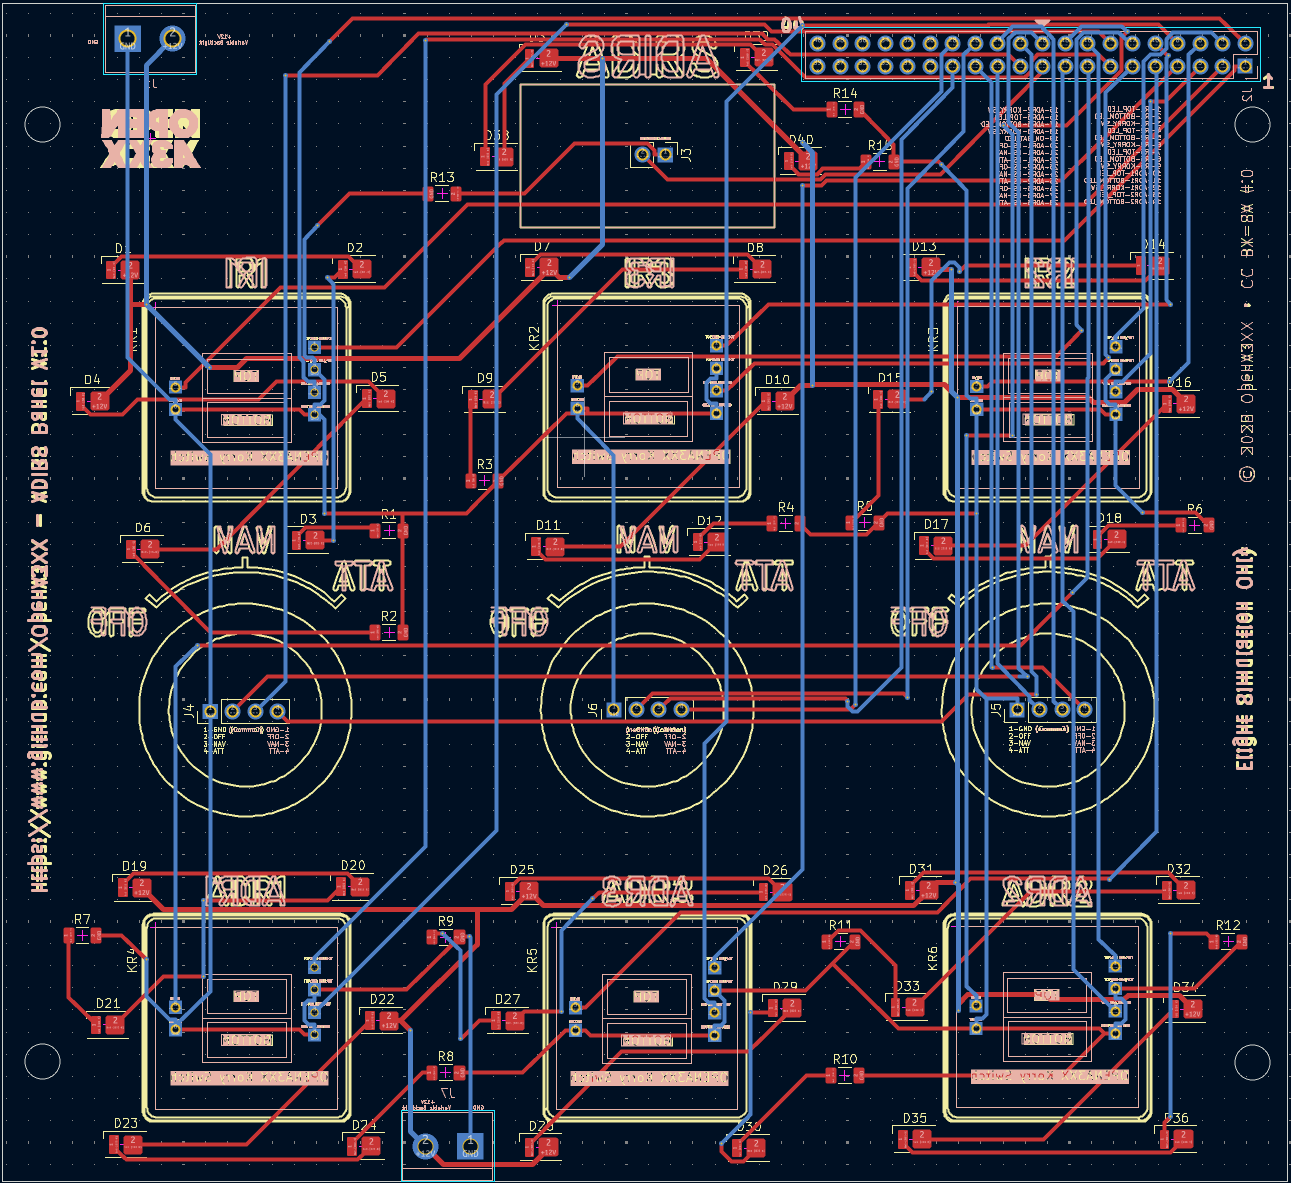
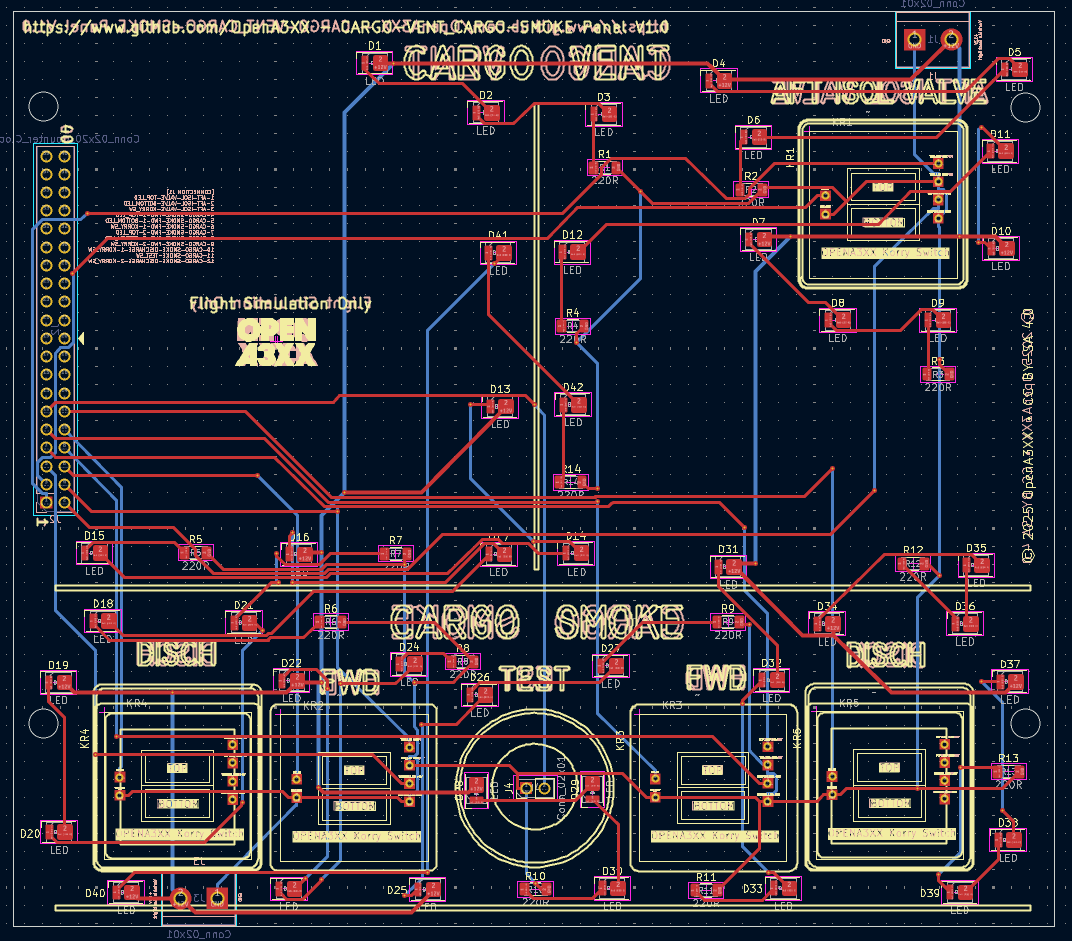
Cargo Vent and Cargo Smoke Panel Docs

diff --git a/airbus-a320-panels/overhead/right-section/CARGO-VENT-CARGO-SMOKE/README.md b/airbus-a320-panels/overhead/right-section/CARGO-VENT-CARGO-SMOKE/README.md
@@ -1,2 +1,133 @@
-# OpenA3XX – TODO Panel v1.0  
-**Flight Simulation Hardware – TODO Control Panel**
+
+# OpenA3XX – Cargo Vent & Cargo Smoke Panel v1.0  
+**Flight Simulation Hardware – CARGO VENT & CARGO SMOKE Panel**
+
+---
+
+## Overview
+
+This panel replicates the **Cargo Ventilation and Cargo Smoke Detection & Discharge controls** as found in Airbus aircraft.  
+The hardware integrates both the AFT ISOL VALVE control and the CARGO SMOKE pushbuttons.
+
+Includes:
+- 1x Korry-style switch for **AFT ISOL VALVE**.
+- 4x Korry-style switches for **SMOKE DISCHARGE** and indicators (FWD/REAR).
+- 1x TEST pushbutton with illumination.
+- Dual-section design for **CARGO VENT** and **CARGO SMOKE** functionalities.
+
+> ⚠ **Flight Simulation Only – Not for use in real aviation applications.**
+
+---
+
+## Panel Layout
+
+![Acrylic Panels](./img/acrylic-panels.png)
+
+**Top Section – CARGO VENT**
+- Label: "CARGO VENT" centered.
+- AFT ISOL VALVE switch positioned top-right with `FAULT`/`OFF` legends.
+
+**Bottom Section – CARGO SMOKE**
+- Label: "CARGO SMOKE" centered.
+- From left to right:
+  - Leftmost `DISCH` square legend (indicator only).
+  - `FWD` SMOKE DISCH Korry (left).
+  - `TEST` pushbutton centered.
+  - `FWD` SMOKE DISCH Korry (right).
+  - Rightmost `DISCH` indicator legend.
+
+---
+
+## PCB Details
+
+![PCB Design](./img/pcb-design.png)
+![PCB 3D Front](./img/pcb-3d-front.png)
+![PCB 3D Back](./img/pcb-3d-back.png)
+
+### Connectors & Interfaces
+
+#### J2 – 40-pin Header
+- Main I/O interface for all switches and LEDs.
+
+##### CONNECTION J2
+| Pin | Signal                          |
+|-----|---------------------------------|
+| 1   | AFT-ISOL-VALVE-TOP_LED          |
+| 2   | AFT-ISOL-VALVE-BOTTOM_LED       |
+| 3   | AFT-ISOL-VALVE-KORRY_SW         |
+| 4   | CARGO-SMOKE-FWD-1-TOP_LED       |
+| 5   | CARGO-SMOKE-FWD-1-BOTTOM_LED    |
+| 6   | CARGO-SMOKE-FWD-1-KORRY_SW      |
+| 7   | CARGO-SMOKE-FWD-2-TOP_LED       |
+| 8   | CARGO-SMOKE-FWD-2-BOTTOM_LED    |
+| 9   | CARGO-SMOKE-FWD-2-KORRY_SW      |
+| 10  | CARGO-SMOKE-DISCHARGE-1-KORRY_SW|
+| 11  | CARGO-SMOKE-TEST_SW             |
+| 12  | CARGO-SMOKE-DISCHARGE-2-KORRY_SW|
+
+#### Korry Switch Connectors
+- 4-pin headers labeled KR1–KR5.
+- Designed for OpenA3XX Korry-style switch modules.
+
+#### TEST Pushbutton
+- Standard illuminated pushbutton footprint.
+
+#### Terminal Blocks
+- 2-pin green screw terminals at top-left and bottom-right.
+- Provide +12V and GND power to panel lighting.
+
+---
+
+## LEDs and Indicators
+
+- 42 yellow SMD LEDs labeled D1–D42.
+- Used for:
+  - Illuminating Korry switch outlines.
+  - Backlighting legends (DISCH, FAULT, OFF).
+  - TEST button and vertical divider illumination.
+
+Each LED has an inline 220-ohm current-limiting resistor (R1–R14).
+
+---
+
+## Mounting and Assembly
+
+- 4 corner holes for mounting into cockpit enclosure.
+- CNC-cut acrylic matches PCB exactly.
+- Includes silkscreen legends for:
+  - Component IDs.
+  - Alignment of Korry modules.
+  - Mechanical guides.
+
+---
+
+## Fabrication and Panel Fit
+
+### Acrylic Faceplate:
+- Laser-engraved legends:
+  - Top: `CARGO VENT`, `AFT ISOL VALVE`
+  - Bottom: `CARGO SMOKE`, `DISCH`, `SMOKE`, `TEST`, `FWD`, `OFF`, `FAULT`
+- Color-coded design for fabrication:
+  - Red = Front outline
+  - Blue = Rear backing panel
+  - Green = Text engraving
+  - Orange = Legend highlights
+
+---
+
+## PCB Design Reference
+
+Routing View (from KiCad):
+- Red = Top traces  
+- Blue = Bottom traces  
+- Yellow = Silkscreen  
+- Labels include part positions, net traces, and power lines.
+
+---
+
+## 🔗 Attribution
+
+- **Version**: Cargo Vent & Cargo Smoke Panel v1.0  
+- **Project**: [OpenA3XX](https://www.github.com/OpenA3XX)  
+- **License**: CC BY-SA 4.0  
+- **Note**: Design for simulation use only.
